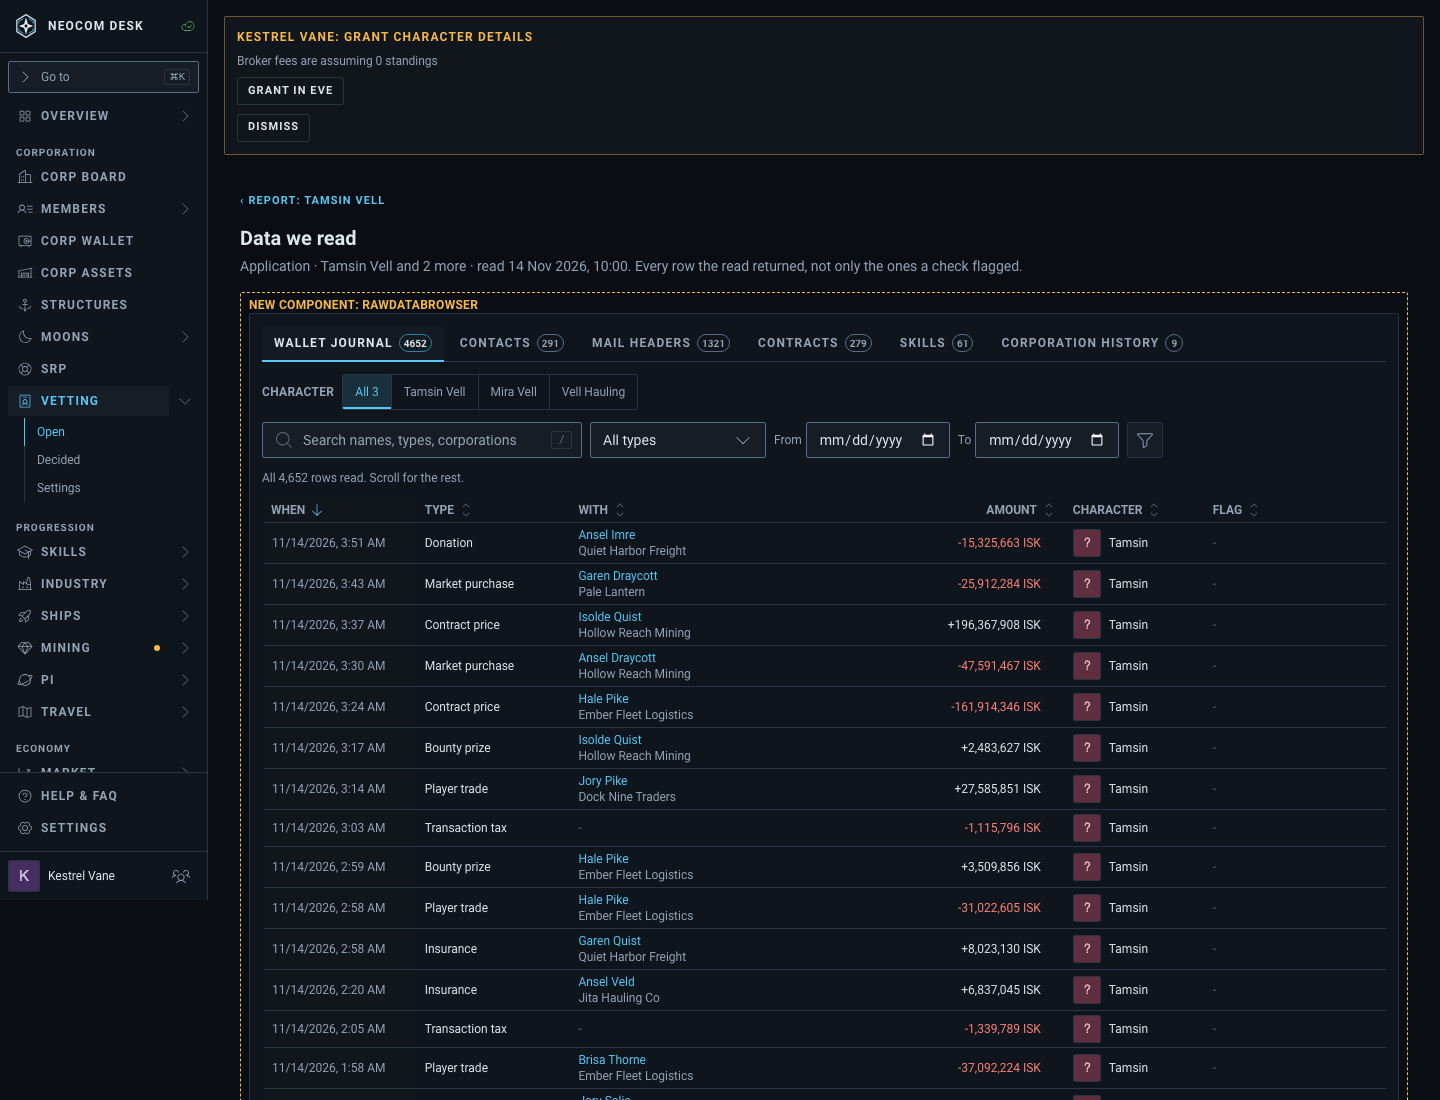
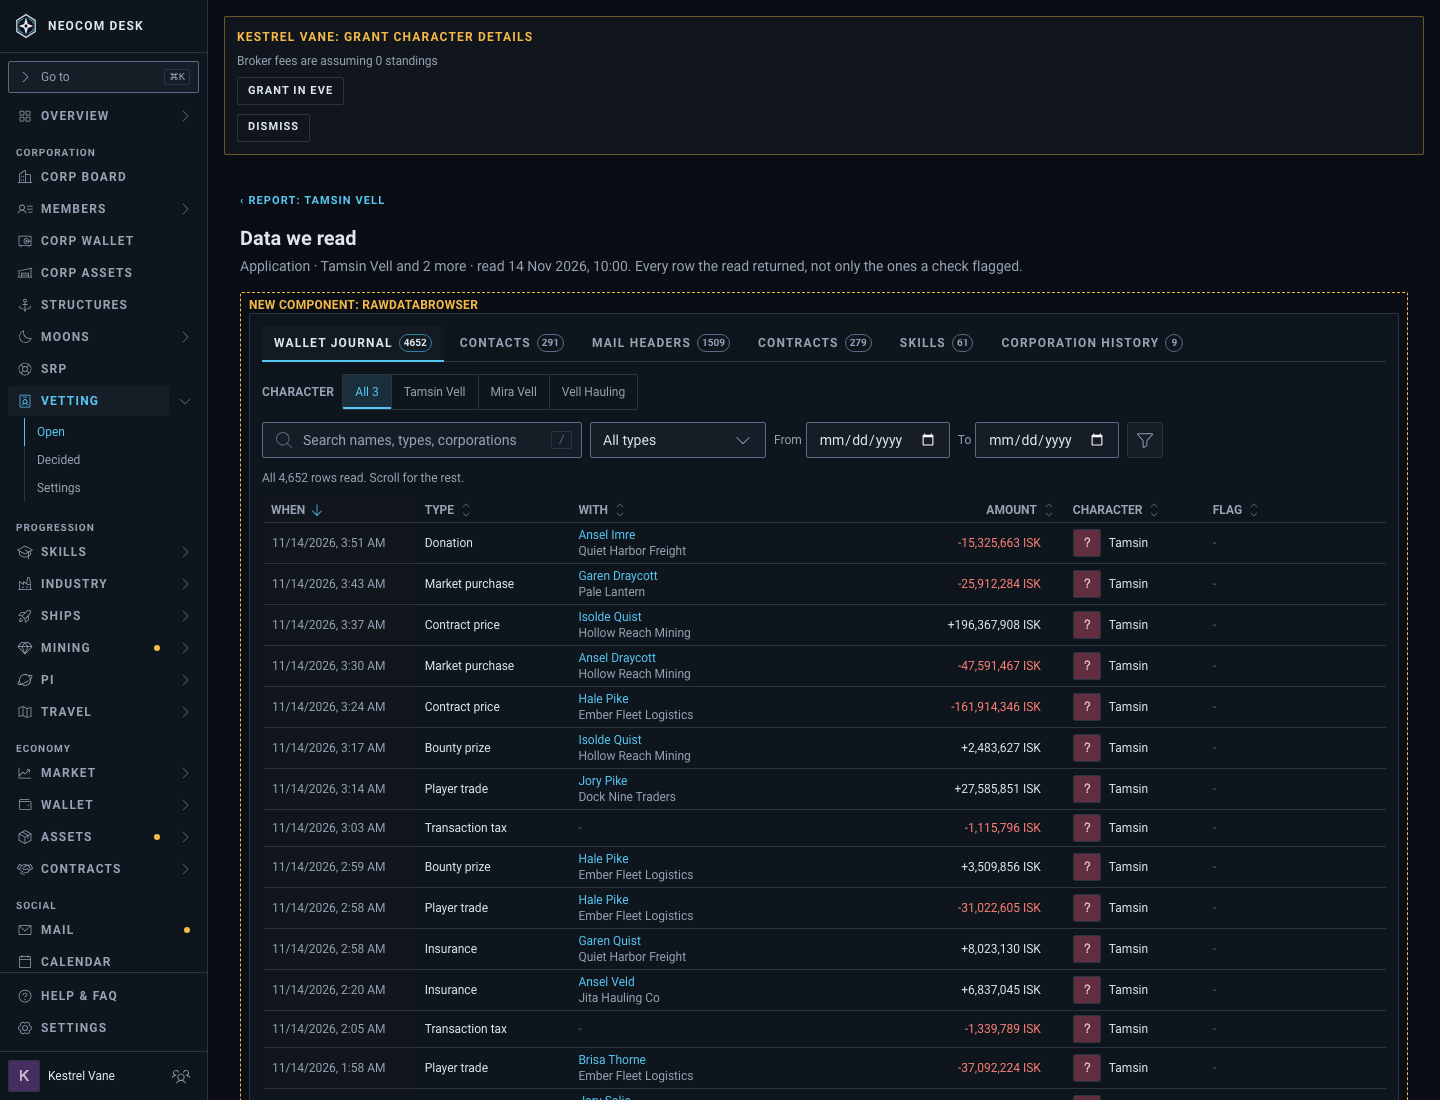
docs(mockups): vetting raw data: reshoot, README records review decisions (#6341)

Changed region(s): [[0.0, 0.8655, 0.0938, 1.0], [0.0, 0.7109, 0.0938, 0.8345]]

diff --git a/src/mockups/vettingRawDataBrowser.tsx b/src/mockups/vettingRawDataBrowser.tsx
@@ -186,9 +186,13 @@ function useColumns(source: SourceId, allCharacters: boolean): DataTableColumn<R
     sortValue: (row) => row.flag?.title,
     render: (row) =>
       row.flag ? (
-        <NewComponent name="NewFlagLink">
+        <span
+          data-new-component="NewFlagLink"
+          title="New component: NewFlagLink"
+          className="inline-flex rounded-xs border border-dashed border-warning px-1.5 py-0.5"
+        >
           <NewFlagLink id={row.flag.id} title={row.flag.title} />
-        </NewComponent>
+        </span>
       ) : (
         <span className="text-text-faint">-</span>
       ),

diff --git a/docs/design/mockups/vetting-raw-data/README.md b/docs/design/mockups/vetting-raw-data/README.md
@@ -1,10 +1,10 @@
 # Vetting: keep and browse all the raw data a review read
 
-Mockup only, no product code. Issue #6341. Stories: `src/mockups/VettingRawData.stories.tsx` (title `mockups/VettingRawData`; the browser in `vettingRawDataBrowser.tsx`, report and consent parts in `vettingRawDataParts.tsx`, sample data in `vettingRawDataFixtures.ts`). Shots at 1440 and 390 (`-1440.png`, `-phone-390.png`); the phone shots are the base story rendered at 390px width (only the stories listed in `VettingRawData.stories.tsx` as `...Phone` are separate Storybook variants). Sample data, 4,652 wallet rows from a fixed seed; the ticket's text wins over the picture where they differ. The images were shot before the review fixes: consent images show the earlier wording ("When you press Send", "Nothing is read again", officers line without the asked/reviewed exclusion) and flagged-row images lack the New component frame on the Flag link; the stories and this text are current.
+Mockup only, no product code. Issue #6341. Stories: `src/mockups/VettingRawData.stories.tsx` (title `mockups/VettingRawData`; the browser in `vettingRawDataBrowser.tsx`, report and consent parts in `vettingRawDataParts.tsx`, sample data in `vettingRawDataFixtures.ts`). Shots at 1440 and 390 (`-1440.png`, `-phone-390.png`); the phone shots are the base story rendered at 390px width (only the stories listed in `VettingRawData.stories.tsx` as `...Phone` are separate Storybook variants). Sample data, 4,652 wallet rows from a fixed seed; the ticket's text wins over the picture where they differ. The images match the stories. In a table cell a New component is a dashed outline with no label (the Flag link, `NewFlagLink`); hover shows its name.
 
 The tall lists are shot at one screen (1,100px): the table is windowed (`DataTable virtualize`), so the rest only draws as you scroll. Open the story in Storybook to scroll all 4,652 rows.
 
-One recommended design, with open questions at the end. It shares the review page with #6328 (Review a member): "Data we read" goes where that page's report is, below the flags, so the two merge without moving each other.
+One recommended design, with the decisions made in review at the end. It shares the review page with #6328 (Review a member): "Data we read" goes where that page's report is, below the flags, so the two merge without moving each other.
 
 ## Today vs proposed
 
@@ -21,7 +21,7 @@ One recommended design, with open questions at the end. It shares the review pag
 | Report | Flags, checks, characters, About this report. Nothing else the read returned. | Adds "Data we read" (one row per source) and, under the flags, a link from each flag to its rows. |
 | Browsing | None. | A page per review, `Data we read`, with a tab per source, a character switcher, search, a Type filter, a date range, sort on every column. |
 | Flagged row | Only inside the flag's 10 rows. | Tinted in the list, with a Flag link back to the flag in the report. |
-| Consent | Says what is read and that it is deleted 30/90 days after. Silent that rows survive Send (they do not today). | A "Changed" note, "Kept after you press Send", officers only, mail headers only, no key kept. |
+| Consent | Says what is read and that it is deleted 30/90 days after. Silent that rows survive Send (they do not today). | "Kept after you press Send", officers only, mail headers only, no key kept. |
 
 ## States
 
@@ -31,43 +31,43 @@ One recommended design, with open questions at the end. It shares the review pag
 | Flagged rows, sorted by amount, linked to their flag | ![](wallet-flagged-row-1440.png) | ![](wallet-flagged-row-phone-390.png) |
 | Flagged rows only | ![](wallet-flagged-only-1440.png) | ![](wallet-flagged-only-phone-390.png) |
 | Contacts | ![](contacts-1440.png) | ![](contacts-phone-390.png) |
-| Mail headers, one character did not share | ![](mail-headers-1440.png) | ![](mail-headers-phone-390.png) |
+| Mail headers | ![](mail-headers-1440.png) | ![](mail-headers-phone-390.png) |
 | Contracts, filtered (type, dates) | ![](contracts-filtered-1440.png) | ![](contracts-filtered-phone-390.png) |
 | Skills, flagged row | ![](skills-1440.png) | ![](skills-phone-390.png) |
 | Corporation history | ![](corp-history-1440.png) | ![](corp-history-phone-390.png) |
-| Source not shared (character switcher on Mira) | ![](not-shared-1440.png) | ![](not-shared-phone-390.png) |
 | Empty source (shared, nothing found) | ![](empty-source-1440.png) | ![](empty-source-phone-390.png) |
 | Filters match nothing | ![](no-match-1440.png) | ![](no-match-phone-390.png) |
 | Consent terms alone | ![](consent-terms-only-1440.png) | ![](consent-terms-only-phone-390.png) |
 
 ## Design choices
 
-1. **A page of its own, not a panel on the report.** `/corp/vetting/open/:id/data/:source`, crumb back to the report. Thousands of rows need the full width and a stable URL (a flag links straight to its rows, a colleague can be sent the link). The report keeps one small table, "Data we read", whose row click and accent name open the source (section 6c: the row's primary action beats a name link; no Open button).
-2. **Tabs for sources, a joined group for characters.** Six sources are peers on one page, so `Tabs` with a count badge each. Characters switch what the table holds, so `SegmentedControl` ("All 3" first, then each name). The group allows 2 to 4 options: up to three characters fit. A review with more falls back to a `Select` (open question 2). A single-character review shows no switcher and no Character column.
+1. **A page of its own, not a panel on the report.** `/corp/vetting/open/:id/data/:source`, crumb back to the report. Thousands of rows need the full width and a stable URL (a flag links straight to its rows, a colleague can be sent the link). The report keeps one small table, "Data we read", whose row click and accent name open the source (section 6c: the row's primary action beats a name link; no Open button). In the list, a party's name opens its Show Info (`PublicInfoModal`) like every other entity name; the list row itself opens nothing.
+2. **Tabs for sources, a joined group for characters.** Six sources are peers on one page, so `Tabs` with a count badge each. Characters switch what the table holds, so `SegmentedControl` ("All 3" first, then each name). The group allows 2 to 4 options: up to three characters fit. A review with more falls back to a `Select` with "All characters" first (decided; not drawn). A single-character review shows no switcher and no Character column.
 3. **One windowed table, never a cap.** `DataTable` with `virtualize="auto"`, `density="compact"`, sort on every column. All 4,652 rows are reachable by scrolling; a line above says "All 4,652 rows read. Scroll for the rest." With a filter on it says "508 of 4,652 rows". Nothing is truncated, paged by button or "show more".
 4. **Tables stay tables on a phone.** `responsive="table"`, the first column pinned, the rest scroll sideways. A dense card stack of thousands of rows is worse to scan than columns.
 5. **Filters in the standard `FilterBar`.** Search stays in the row. The source's one kind filter (Type, Direction, Contract type, Standing, Skill group) and the date range sit inline on a pointer screen; on a phone everything goes in the sheet. Active filters show as pills, with Clear all. "Flagged rows only" is a chip behind the funnel. Sources with no dates (Contacts, Skills) show no date range rather than a dead one; Corporation history has none either, its dates are columns.
-6. **Not shared and empty are different states, in different words.** Not shared: a warning pill and "Mira Vell did not share Mail headers" (one character: a line above the other rows says they are from 2 of 3; the only sharer's rows absent: an empty state with Show all characters). Empty: "No wallet journal rows ... Empty is a result: the source was shared and read." Filters matching nothing is a third state with Clear filters. Corporation history is public, so never "not shared".
+6. **Empty and no-match are different states, in different words.** Every character shares everything the read asks for (sharing is by character, never by source, and the EVE sign-in page has no per-scope choice), so there is no "not shared" state. Empty: "No wallet journal rows ... Empty is a result: the source was read." Filters matching nothing is a second state with Clear filters.
 7. **Flag and row point at each other.** In the list: a tinted row and a Flag link (severity glyph and the flag's title) to `#flag-<check>` in the report. In the report: under the flag list, one link per flag to its rows ("Open the 3 rows in Wallet journal ... the flag shows up to 10; the journal has all 4,652"). In the build the link belongs inside each flag's own "rows behind this" disclosure; the mockup puts it under the list because the flag list is the real component. Flags still keep their 10-row evidence; the data is not a second copy of the flag.
 8. **Mail is headers only, and the table says so.** Columns: sent time, direction, the other party, all recipients. No subject, no text, no preview column. A mail row has no flag today. The "Data we read" note repeats it.
-9. **Officer-only, the same as flags.** No new UI for access: the report page and the data page are the same gate, each open is logged where the pilot sees it. The person who asked for the review and the person reviewed cannot open it, as today. Opening a source is covered by the report's own log line ("Opening a source is logged with the other opens"); whether each source open gets its own line is open question 3.
-10. **Consent says the true thing plainly.** A "Changed" note first ("After you press Send, we keep every row we read, not only the ones that looked unusual"), then the same two-column shape as today: what officers see (each source with its own scope: every row, every contact, every trained skill), a new "Kept after you press Send" group (every row, 30 days after the decision, 90 days if nobody decides, or when you delete it), "You stay in control" (officers only, you see who opened it, you can delete it), "Not read, not kept" (mail subject and text, your EVE login: "We do not keep your login"). The "Changed" note can be dropped a release after the change; the terms stay.
+9. **Officer-only, the same as flags.** No new UI for access: the report page and the data page are the same gate, each open is logged where the pilot sees it. The person who asked for the review and the person reviewed cannot open it, as today. Opening a source is covered by the report's own log line ("Opening a source is logged with the other opens"); each source open does not get its own line (decided).
+10. **Consent says the true thing plainly.** The same two-column shape as today: what officers see (each source with its own scope: every row, every contact, every trained skill), a new "Kept after you press Send" group (every row, 30 days after the decision, 90 days if nobody decides, or when you delete it), "You stay in control" (officers only, you see who opened it, you can delete it), "Not read, not kept" (mail subject and text, your EVE login: "We do not keep your login"). No "Changed" note: nobody uses the tool yet, so there is no old wording to flag.
 
 ## New components
 
-- `DataWeRead`: the report's section. A `Panel` + `DataTable` of six rows (source, rows read, covers, shared by) and a note.
+- `DataWeRead`: the report's section. A `Panel` + `DataTable` of six rows (source, rows read) and a note.
 - `FlagDataLinks`: a flag's way into its rows. In the build, a link in each flag's disclosure, not a block.
 - `RawDataBrowser`: the page's arrangement of `Tabs`, `SegmentedControl`, `FilterBar` and a windowed `DataTable`. No new primitive inside it.
 - `NewFlagLink`: the browser's Flag column, a severity glyph and the flag's title linking to `#flag-<check>`.
-- `ConsentTermsKept`: `VettingConsentTerms` with the new group and the Changed note.
+- `ConsentTermsKept`: `VettingConsentTerms` with the new group.
 
 The flag list and decision rail are the real components.
 
-## Open questions
+## Decisions made in review
 
-1. **Row detail.** A row opens nothing today (a party name opens Show Info, the standard entity link). Is that enough, or should a wallet row open a detail view? Chose nothing: every field already shows in the row.
-2. **More than three characters.** `SegmentedControl` stops at four options. Past that, a `Select` with "All characters" first. Is a corp's review ever past three characters?
-3. **Logging each source open.** One log line per report open (today) or one per source opened? Per source is more honest to the pilot, and noisier. The consent line "Opening a source is logged with the other opens" depends on the answer.
-4. **Export.** Not drawn. Officers asking for "everything that was read" may want a CSV. Exports carry all data, never filtered; add it if wanted, one Download in the Panel header.
-5. **Wallet journal window.** Consent says 30 days today and the mockup keeps it. A longer window would be a separate scope change (ADR).
-6. **Row cost.** 4,652 wallet rows for one busy trader. Storage and read paging are build concerns (subcollection, paged reads); the UI assumes the list loads in pages behind one scroll and never shows a page control.
+1. **Row detail.** None. Every field shows in the row. A party's name opens its Show Info.
+2. **More than three characters.** `Select` with "All characters" first. Not drawn.
+3. **Logging.** One log line per review open, as today. No line per source.
+4. **Export.** Not in this change. A CSV can come later (one Download in the Panel header, all rows, never filtered).
+5. **Wallet window.** Stays 30 days. A longer window is a separate scope change (ADR).
+6. **Sharing.** There is no "not shared" source. A character is added whole and the EVE sign-in page offers no per-scope choice, so the mockup has no per-source sharing state, no "Shared by" column and no "Covers" column (the consent terms already say what each source covers).
+7. **Row cost.** 4,652 wallet rows for one busy trader. Storage and read paging are build concerns (subcollection, paged reads); the UI assumes the list loads in pages behind one scroll and never shows a page control.

diff --git a/docs/design/mockups/README.md b/docs/design/mockups/README.md
@@ -38,6 +38,6 @@ PNG exports of the chosen mockups for ready tickets. Delete a folder (and its ro
 | [review-member](review-member/README.md) | Owner request (no issue yet) | Not chosen yet: roster autocomplete for Review a member (no-match, already-waiting, picked states), role suggestions, result step with a sent-on-purpose in-game mail and preview, waiting queue rows with mail state and menu, request page before the member shares, the member's page top |
 | [moons-settings-and-layout](moons-settings-and-layout/README.md) | Issue #6304 | Chosen by the agent: Sharing is a fifth Moon settings tab (scrolls in the modal, saves apart); Moons page keeps its layout, six tabs |
 | [payee-one-per-entity](payee-one-per-entity/README.md) | Issue #6308 | Chosen by the agent: one Manage Payees row per recipient with "Used by N characters"; differing terms shown as one "Use … for all" button per distinct terms |
-| [vetting-raw-data](vetting-raw-data/README.md) | Issue #6341 | Chosen by the agent: Data we read on the report (one row per source); a page per review with source tabs, a character switcher, filters and one windowed table (all rows, no cap); flagged rows and flags link both ways; not shared, empty and no-match are three states; consent says rows are kept after Send |
+| [vetting-raw-data](vetting-raw-data/README.md) | Issue #6341 | Chosen by the agent: Data we read on the report (one row per source); a page per review with source tabs, a character switcher, filters and one windowed table (all rows, no cap); flagged rows and flags link both ways; empty and no-match are two states; consent says rows are kept after Send |
 
 First draft mockup; sample data. The ticket's Agent Brief text wins over the picture where they differ.
